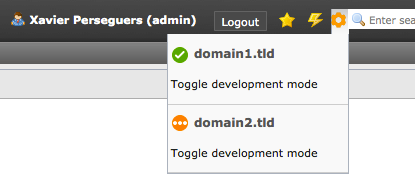
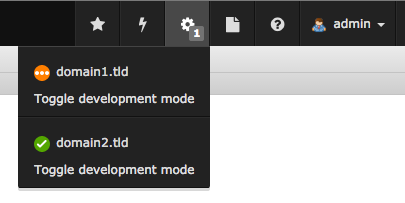
[TASK][DOC] Refresh content and screenshots for TYPO3 7.x

diff --git a/Documentation/UsersManual/SupportForSSL/Index.rst b/Documentation/UsersManual/SupportForSSL/Index.rst
@@ -9,14 +9,15 @@
 Support for SSL
 ---------------
 
-SSL support for CloudFlare requires a Business plan (formerly "Pro account"). Please read
+SSL support for CloudFlare originally required a Business plan (formerly "Pro account") but is now freely available to
+everyone, including free accounts. Please read
 https://support.cloudflare.com/hc/en-us/articles/200170336-How-do-I-upgrade-to-a-Business-Plan if you want to upgrade
 your FREE account.
 
-CloudFlare supports either Full SSL or Flexible SSL. Full SSL requires your web server to run over SSL whereas Flexible
-SSL will only use SSL from the client to CloudFlare but then your web server will still operate on port 80. This
-extension is able to deal with Flexible SSL and will automatically set the HTTPS header to "``on``" if Flexible SSL is
-detected, allowing you to generate links containing the "``https://``" prefix.
+CloudFlare supports either Full SSL (strict) or Flexible SSL. Full SSL requires your web server to run over SSL whereas
+Flexible SSL will only use SSL from the client to CloudFlare but then your web server will still operate on port 80.
+This extension is able to deal with Flexible SSL and will automatically set the HTTPS header to "``on``" if Flexible SSL
+is detected, allowing you to generate links containing the "``https://``" prefix.
 
 You may enforce SSL either at the Web Server level or using Page Rules in CloudFlare. If using Apache, please read
 https://support.cloudflare.com/hc/en-us/articles/200170536-How-do-I-redirect-HTTPS-traffic-with-Flexible-SSL-and-Apache.
@@ -37,3 +38,5 @@ Read more:
 
 - `Nginx configuration <http://nginx.org/en/docs/http/configuring_https_servers.html#sni>`_
 - `Apache configuration <http://www.rackspace.com/knowledge_center/article/serving-secure-sites-with-sni-on-apache>`_
+
+.. note:: If you choose "Full SSL (strict)" instead of "Full SSL", you will not be able to use a self-signed certificate.

diff --git a/Documentation/UsersManual/TogglingDevelopmentMode/Index.rst b/Documentation/UsersManual/TogglingDevelopmentMode/Index.rst
@@ -9,7 +9,7 @@
 Toggling development mode
 -------------------------
 
-An orange gear icon in the toolbar lets you manage your domains / zones:
+A gear icon (orange in TYPO3 6.2, monochrome since TYPO3 7.x) in the toolbar lets you manage your domains / zones:
 
 .. figure:: ../../Images/development-mode.png
 	:alt: Toggling development mode
@@ -18,3 +18,5 @@ Development mode is a way for you to make changes to your site, and see the chan
 mode, you will bypass CloudFlare's proxy and suppress minification. As a result, as you make changes to images, CSS or
 Javascript, the changes will appear immediately. Development mode stays on for three (3) hours and then automatically
 toggles off.
+
+In TYPO3 7.x, the gear icon shows a badge with the number of zones in development mode (if greater than 0).

diff --git a/Documentation/AdministratorManual/Configuration/Index.rst b/Documentation/AdministratorManual/Configuration/Index.rst
@@ -49,8 +49,8 @@ The official list of CloudFlare's reverse-proxy IPs (both IPv4 and IPv6) can be 
 
 	.. code-block:: php
 
-		$TYPO3_CONF_VARS['SYS']['reverseProxyIP'] = '10.0.0.5';
-		$TYPO3_CONF_VARS['SYS']['reverseProxyHeaderMultiValue'] = 'first';
+		$GLOBALS['TYPO3_CONF_VARS']['SYS']['reverseProxyIP'] = '10.0.0.5';
+		$GLOBALS['TYPO3_CONF_VARS']['SYS']['reverseProxyHeaderMultiValue'] = 'first';
 
 	where ``10.0.0.5`` is the IP of your reverse-proxy. This is needed in order for this extension to allow the
 	originating IP to be overridden based on the HTTP header ``HTTP_CF_CONNECTING_IP`` that is only allowed if the

diff --git a/Documentation/UsersManual/FlushingCacheOnCloudFlare/Index.rst b/Documentation/UsersManual/FlushingCacheOnCloudFlare/Index.rst
@@ -9,7 +9,7 @@
 Flushing cache on CloudFlare
 ----------------------------
 
-When you clear all caches in the Backend, the cache on CloudFlare will
+When you clear frontend caches in the Backend, the cache on CloudFlare will
 be flushed as well:
 
 .. figure:: ../../Images/flush-cache.png

diff --git a/Documentation/Index.rst b/Documentation/Index.rst
@@ -30,7 +30,7 @@ CloudFlare Client
 		cloud, content delivery network, cdn, proxy, reverse proxy, ssl, performance
 
 	:Copyright:
-		2012-2014
+		2012-2015
 
 	:Author:
 		Xavier Perseguers
